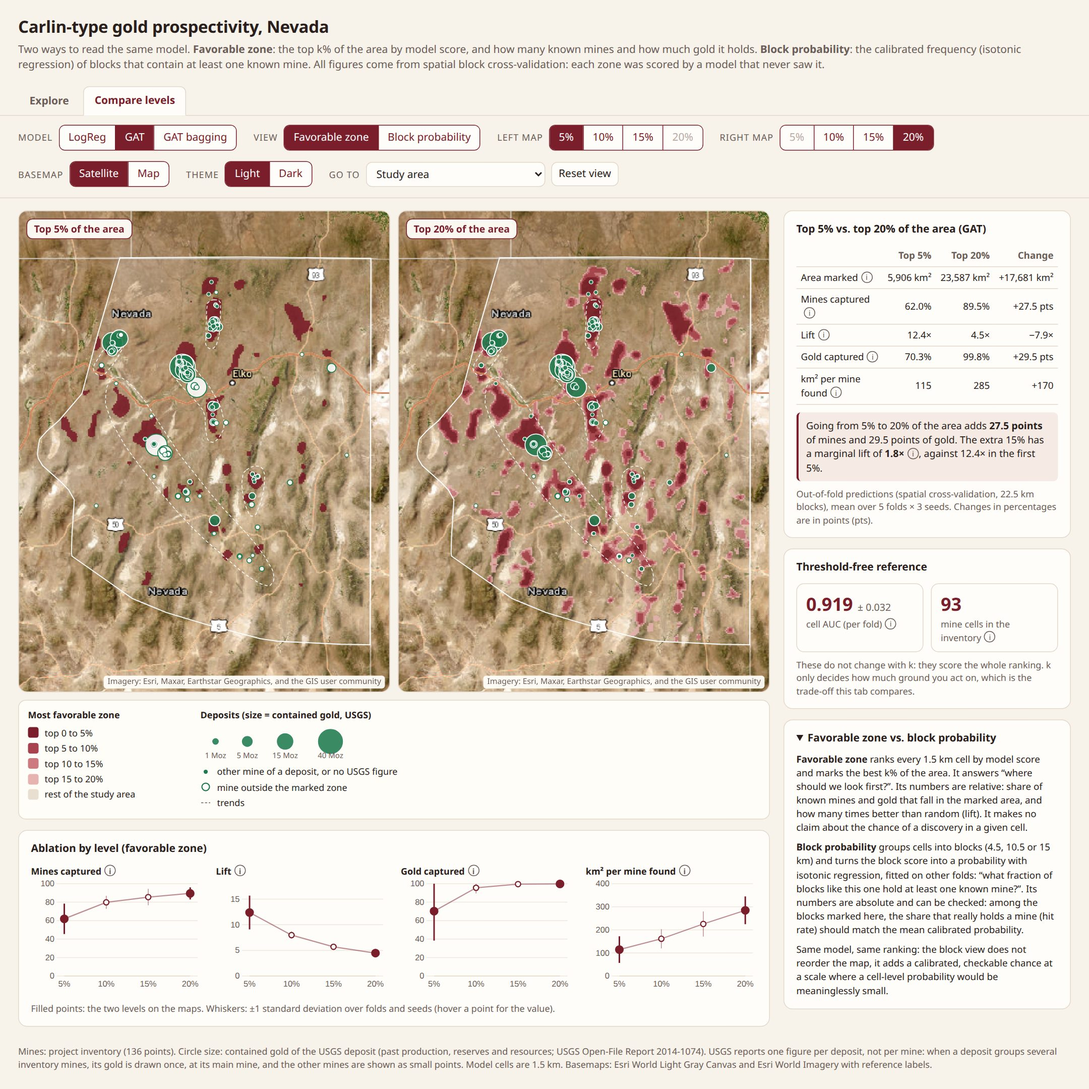
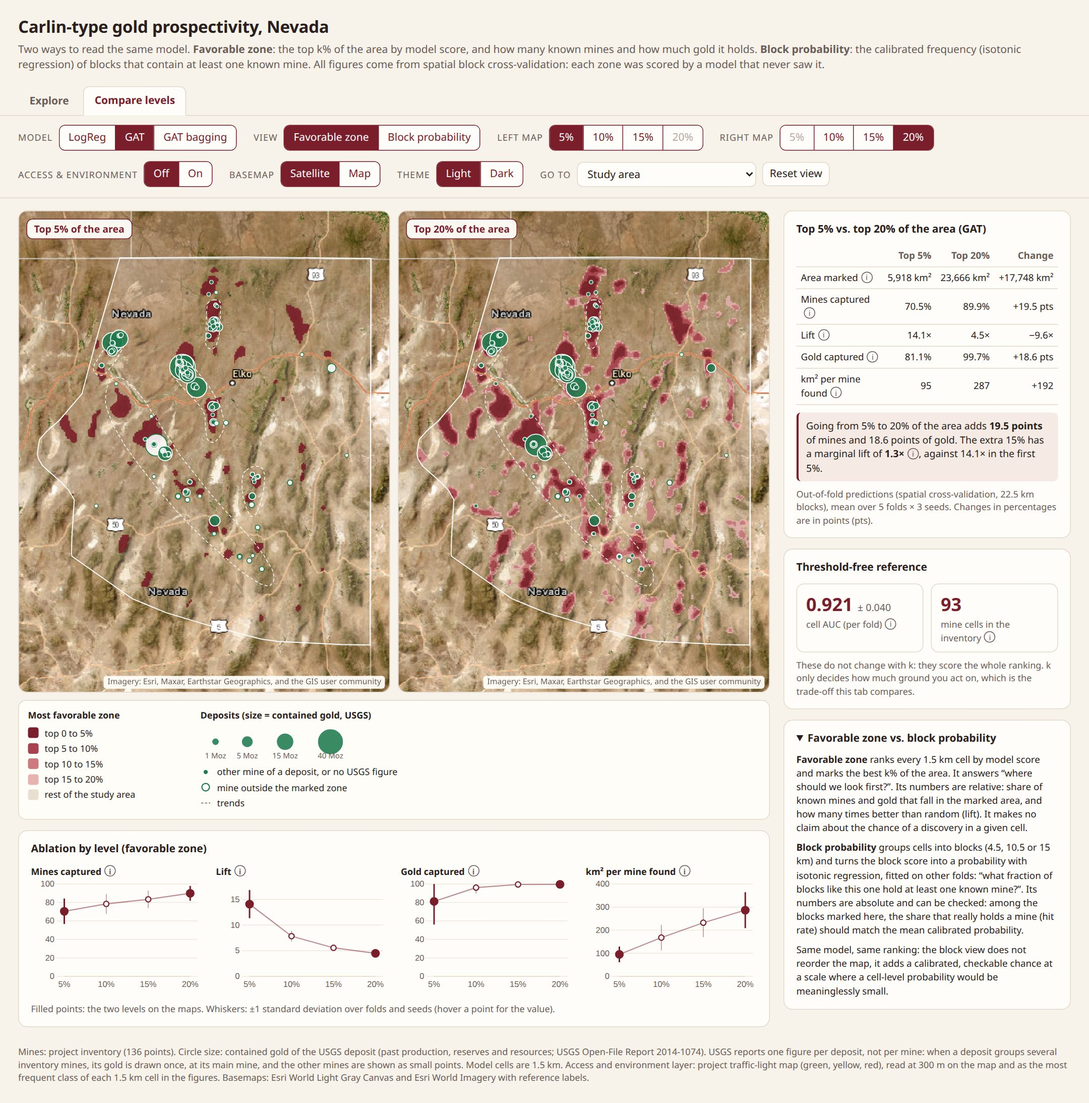
Flowchart and README with LITO GEOQ

Changed region(s): [[0.0, 0.031, 0.9616, 0.9931], [0.5273, 0.7758, 0.6514, 0.9]]

diff --git a/README.md b/README.md
@@ -15,13 +15,15 @@ works offline and needs no server. Basemap tiles come from Esri.
 
 ![Flowchart from the evidence layers to the prospectivity maps](img/flowchart.svg)
 
-1. **Inputs:** 6 evidence rasters, the study area and the known mines.
+1. **Inputs:** 7 evidence rasters (geophysics, geochemistry of streams, soils, hydrology and lithology, rocks and
+   silica), the study area and the known mines.
 2. **Data preparation (A):** rasters aligned and aggregated to 1.5 km cells; mine cells are positives, cells within
    2.5 km of a mine cannot be negatives.
 3. **Graph (B):** each cell is a node linked to its 8 neighbors.
-4. **Models (C):** GAT, GAT bagging and tabular baselines (LogReg among them).
+4. **Models (C):** GAT, GAT bagging and tabular baselines (LogReg among them), on 12 features per cell (7 layers plus
+   5 coverage flags for layers with gaps).
 5. **Spatial validation (D):** 5 folds of 22.5 km blocks; each block is scored by a model that never saw it, and layer
-   importance is measured by permutation.
+   importance is measured by permutation in every fold (ROCAS and GEOFISICA rank first).
 6. **Results (E):** final maps trained on all mines, metrics and layer importance.
 7. **Calibration and products (F):** isotonic calibration, the two views of this page (favorable zone and block
    probability) and the page itself.
@@ -47,10 +49,19 @@ Two tabs:
 Models: **GAT** (graph attention network, configuration of the team notebook), **GAT bagging** (4 GATs with bootstrap)
 and **LogReg** (logistic regression baseline), all calibrated with isotonic regression.
 
+An optional **access and environment** layer (the project traffic-light map: green, yellow, red) can be switched on
+as a base layer under the favorable zone, with an adjustable zone opacity. The panel then reports how much of the
+marked zone falls on green, yellow and red ground.
+
+On phones, one finger scrolls the page and two fingers move or zoom the map.
+
 ## How the figures were obtained
 
-- **Input layers (6):** GEOFISICA, HIDRO GEOQ, ROCAS, SILICE, STREAM GEOQ and SUELOS GEOQ, on a 1.5 km grid
-  (UTM 11N) inside the study area. Each cell is a node of an 8-connected graph.
+- **Input layers (7):** GEOFISICA, HIDRO GEOQ, LITO GEOQ, ROCAS, SILICE, STREAM GEOQ and SUELOS GEOQ, on a 1.5 km
+  grid (UTM 11N) inside the study area. Each cell is a node of an 8-connected graph. Adding LITO GEOQ to the 6 layers
+  of the 13th attempt raised the share of known mines in the top 5 % of the area from about 62 % to
+  69 to 71 % and the gold captured there from 70 to 80 % to 85 to 97 % (same folds and seeds); the 10 to 20 % levels
+  stay the same.
 - **Known mines:** the project inventory (136 points, 93 mine cells).
 - **Validation:** every figure on the page comes from spatial cross-validation with 22.5 km blocks (5 folds,
   3 seeds). Each cell was scored by a model that never saw its block. The maps themselves are painted with the final
